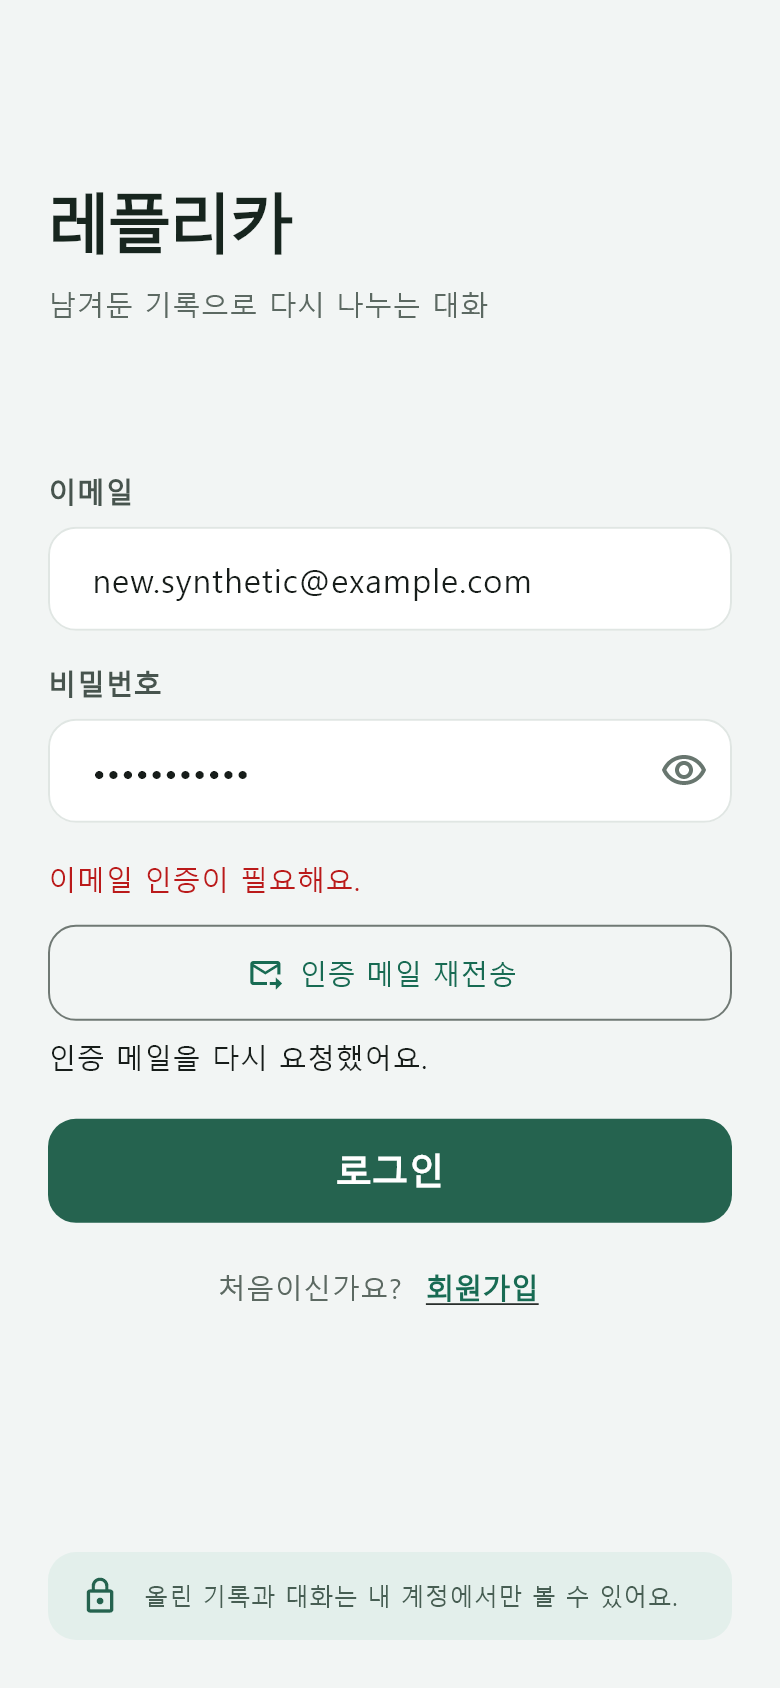
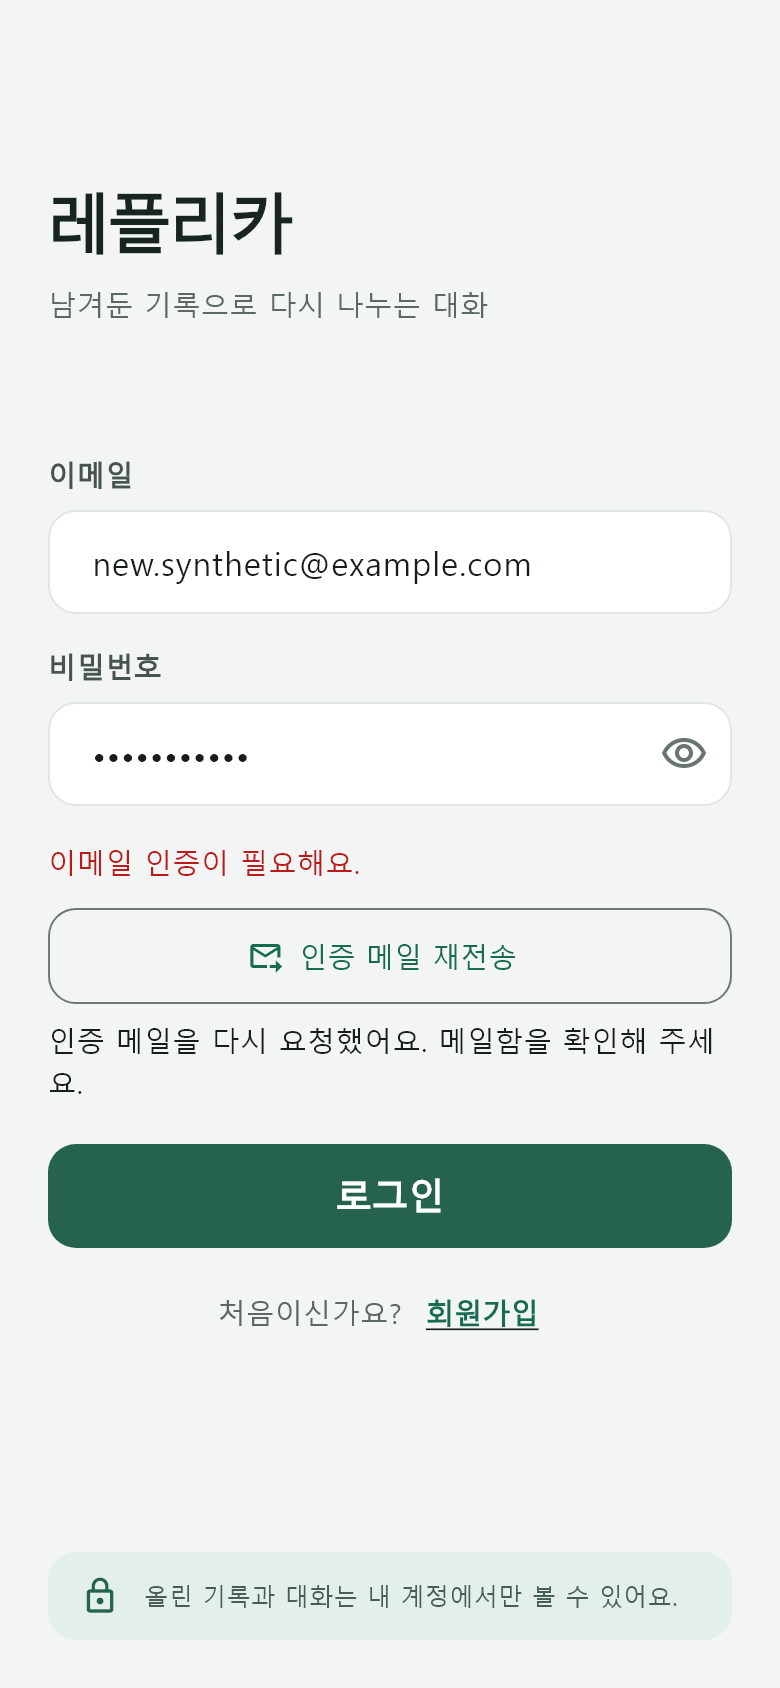
fix(mobile): ask to check the inbox after a confirmation resend (#125)
An unconfirmed sign-in shows no signup notice, so after a successful
resend nothing told the user what to do next. Add the inbox check back
to the success message, as the issue requires, and update the test,
auth docs and resend capture to match.

diff --git a/mobile/test/auth_resend_test.dart b/mobile/test/auth_resend_test.dart
@@ -14,7 +14,7 @@ import 'package:supabase_flutter/supabase_flutter.dart';
 const email = 'new.synthetic@example.com';
 const resendKey = ValueKey('auth-resend');
 const resultKey = ValueKey('auth-resend-result');
-const sentText = '인증 메일을 다시 요청했어요.';
+const sentText = '인증 메일을 다시 요청했어요. 메일함을 확인해 주세요.';
 const rateLimitedText = '잠시 후 다시 시도해 주세요.';
 const networkText = '네트워크 연결을 확인하고 다시 시도해 주세요.';
 const failedText = '요청하지 못했어요. 다시 시도해 주세요.';

diff --git a/mobile/lib/auth/auth_screen.dart b/mobile/lib/auth/auth_screen.dart
@@ -76,7 +76,7 @@ class _AuthScreenState extends State<AuthScreen> {
       failed = false;
       result = widget.service.isPreview
           ? '미리보기라 메일은 보내지 않아요.'
-          : '인증 메일을 다시 요청했어요.';
+          : '인증 메일을 다시 요청했어요. 메일함을 확인해 주세요.';
     } on AuthFailure catch (error) {
       result = switch (error.kind) {
         AuthFailureKind.rateLimited => '잠시 후 다시 시도해 주세요.',

diff --git a/mobile/AUTH_CONTRACT.md b/mobile/AUTH_CONTRACT.md
@@ -31,7 +31,7 @@
 
 - 재전송 대상은 위 요청 때 정해지며 이메일 입력칸의 이후 값을 보내지 않습니다. 입력칸을 다른 주소로 바꾸거나, 로그인·회원가입을 전환하거나, 새로 로그인·가입을 요청하면 버튼과 결과 안내가 사라집니다.
 - 요청 중에는 재전송 버튼을 비활성화하고(‘요청 중…’), 입력칸·로그인·회원가입 전환도 막아 요청이 겹치지 않게 합니다. 로그인·가입을 새로 요청하면 그 순간 버튼이 사라지므로, 로그인·가입 요청과 재전송이 함께 진행되지 않습니다.
-- 결과는 버튼 아래에 표시합니다. 성공: ‘인증 메일을 다시 요청했어요.’ 요청 제한: ‘잠시 후 다시 시도해 주세요.’ 연결 실패: ‘네트워크 연결을 확인하고 다시 시도해 주세요.’ 그 밖의 실패: ‘요청하지 못했어요. 다시 시도해 주세요.’ 실패 뒤에도 버튼을 다시 누를 수 있습니다. 서버 오류 원문은 표시하지 않습니다.
+- 결과는 버튼 아래에 표시합니다. 성공: ‘인증 메일을 다시 요청했어요. 메일함을 확인해 주세요.’ 요청 제한: ‘잠시 후 다시 시도해 주세요.’ 연결 실패: ‘네트워크 연결을 확인하고 다시 시도해 주세요.’ 그 밖의 실패: ‘요청하지 못했어요. 다시 시도해 주세요.’ 실패 뒤에도 버튼을 다시 누를 수 있습니다. 서버 오류 원문은 표시하지 않습니다.
 - Supabase는 이메일 존재 여부를 드러내지 않으려고 없는 주소나 이미 인증한 주소에도 성공으로 답할 수 있습니다. 그래서 성공 안내는 ‘보냈어요’가 아니라 ‘요청했어요’로 표현합니다.
 - 앱은 재전송 간격(쿨다운)을 따로 두지 않고 서버의 요청 제한 응답을 따릅니다. Supabase의 기본 이메일 발송 제한·간격은 프로젝트 설정에 따르며 실제 값은 확인하지 않았습니다.
 

diff --git a/mobile/AUTH_VALIDATION.md b/mobile/AUTH_VALIDATION.md
@@ -8,6 +8,7 @@
 - 위젯 렌더링 캡처 5장을 `docs/screenshots/issue125/`에 추가했습니다(`test/auth_resend_capture_test.dart`, [캡처 안내](docs/screenshots/issue125/README.md)). 이 파일의 2개 테스트는 일반 실행에서도 같은 흐름을 검사하고, 캡처 모드에서만 이미지를 씁니다.
 - 실제 Supabase 프로젝트의 재전송 메일 수신, 이메일 발송 제한 값, 실기기 화면은 미검증입니다.
 - 2026-11-27: 미인증 로그인 오류·재전송 버튼·결과 안내 문구와 가입 후 이메일 인증 안내를 줄였습니다(규칙은 [AUTH_CONTRACT.md](AUTH_CONTRACT.md#인증-메일-재전송-125)). 전체 Flutter 테스트 **452개** 통과, `flutter analyze --no-pub` No issues found, 캡처 5장을 다시 만들었습니다.
+- 2026-11-29 PR #141 리뷰 반영: 재전송 성공 문구에 메일 확인 안내를 다시 넣었습니다(‘인증 메일을 다시 요청했어요. 메일함을 확인해 주세요.’). 미인증 로그인 경로에는 가입 안내가 없어 성공 뒤 다음 행동이 보이지 않았습니다. `test/auth_resend_test.dart`가 두 경로의 성공 문구 전체를 비교합니다.
 
 ## 2026-10-28 PR #62 수정 요청 반영
 
